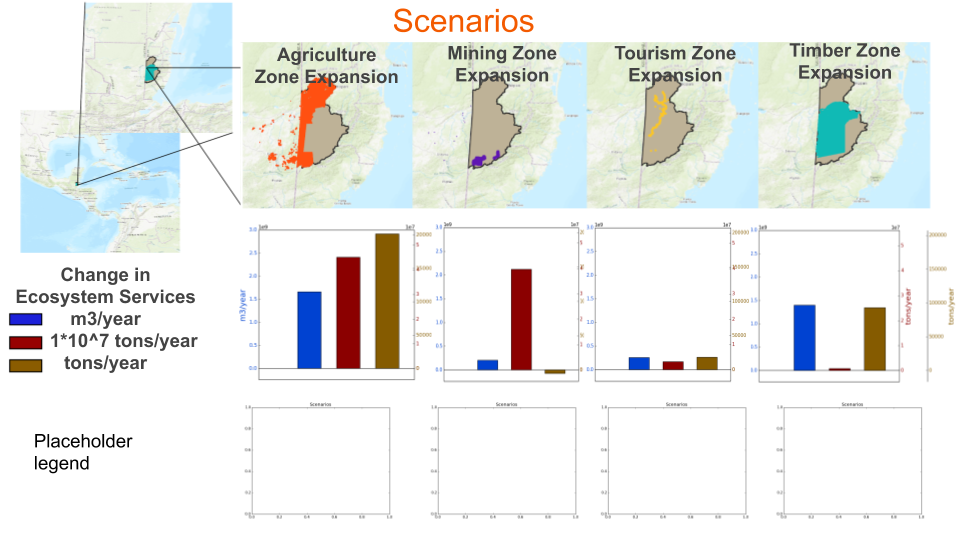
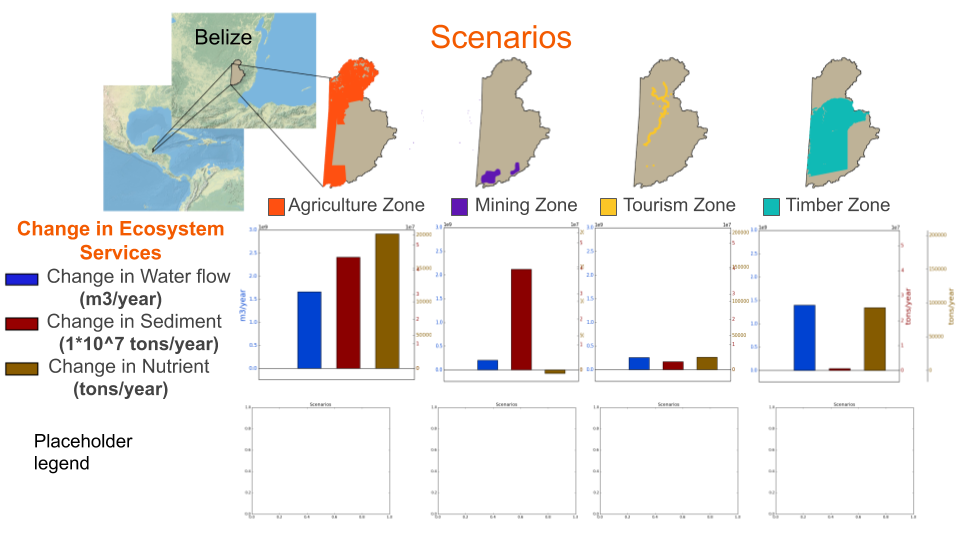
Edits to static figure

diff --git a/index.html b/index.html
@@ -118,7 +118,7 @@
 
 <!-- LULC Panel TO DO !!!
 	Notes: all open with the same button on map, display should also fit in screen with content panel, about panel, and legend -->
-<div class= "LULCclose panels" id= "LULCPanel3"> <button type= "button" class= "exitButton" onclick="LULCPanelClose()">X</button><h3>Case 3</h3> 
+<div class= "LULCclose panels" id= "LULCPanel3"> <button type= "button" class= "exitButton" onclick="LULCPanelClose()">X</button><h3>Scenario Draft</h3> 
 	<img src="scripts/scenarioStaticFigure/ScenarioStaticFigure.png" width= 100%>
 </div>
 

diff --git a/scripts/scenarioStaticFigure/agricultureESBarChart.py b/scripts/scenarioStaticFigure/agricultureESBarChart.py
@@ -50,6 +50,7 @@ nutrient = baseflow.twinx()
 # Second, show the right spine.
 nutrient.spines["right"].set_visible(True)
 
+#bar graph figureName.bar(x,y,barWidth, color, label)
 #change in total flow
 p1, = baseflow.bar(0.5, changeTotalFlow[0], 0.3, color="#0042d1", label="Change in Total Flow | m^3/year")
 #change in sediment transport
@@ -76,9 +77,10 @@ baseflow.set_xlabel("Agriculture")
 tkw = dict(size=4, width=1.5)
 #baseflow.set_ylabel('m3/year', color="#0042d1")
 baseflow.tick_params(axis='y', labelcolor="#0042d1")
-sediment.tick_params(axis='y', labelcolor="#8b0000")
+#sediment.tick_params(axis='y', labelcolor="#8b0000")
 nutrient.tick_params(axis='y', labelcolor="#855b00")
 baseflow.tick_params(axis='x', **tkw)
+
 
 baseflow.axes.get_xaxis().set_visible(False)
 #nutrient.axes.get_yaxis().set_visible(False)
@@ -86,7 +88,7 @@ baseflow.axes.get_xaxis().set_visible(False)
 
 
 
-
+#line through x-axis
 lines = [p1, p2, p3]
 baseflow.axhline(0, color='black', lw=1)
 
